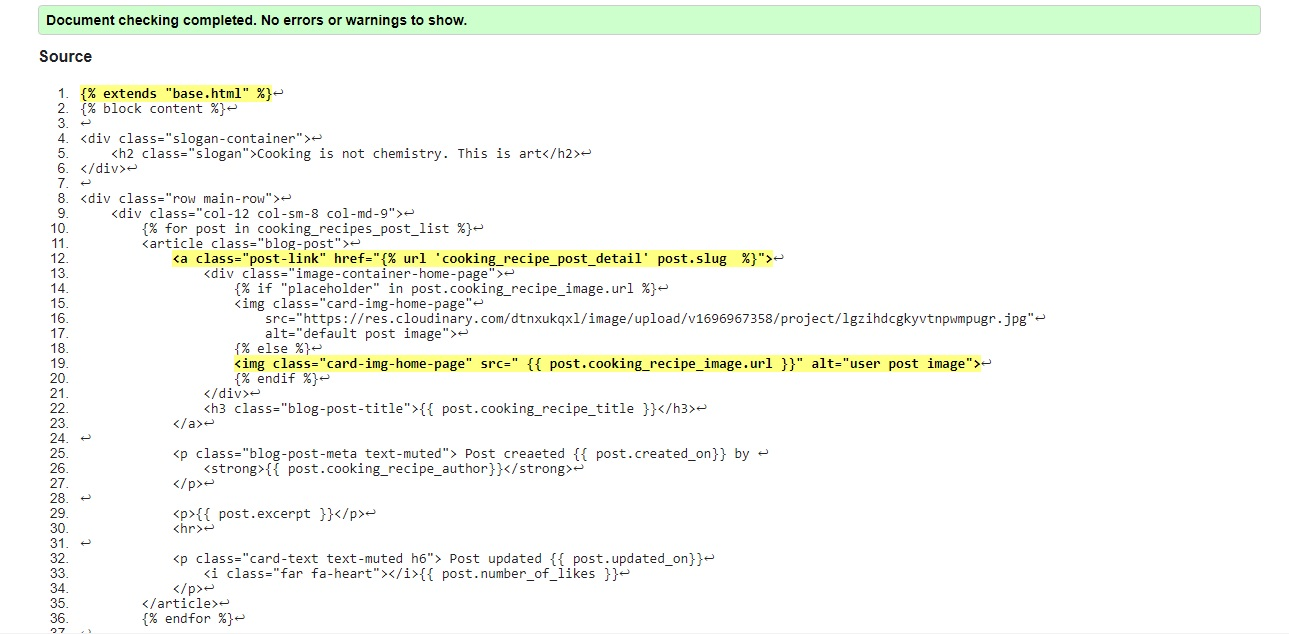
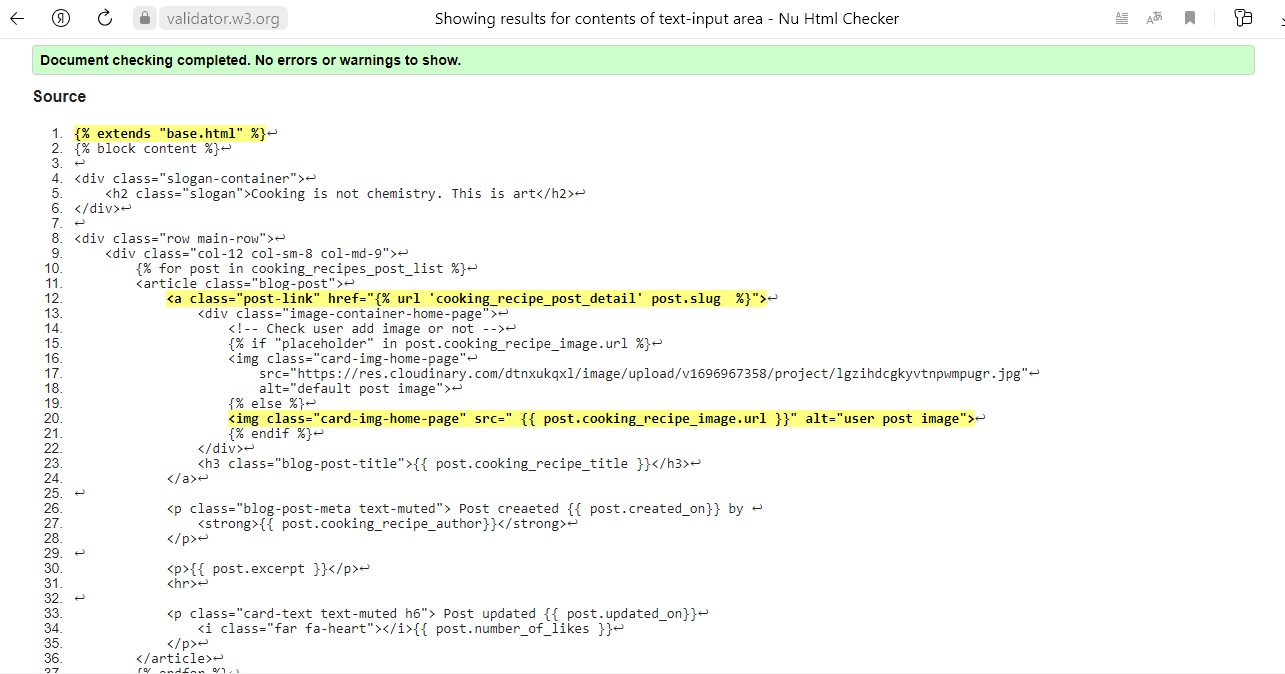
Edit index.html (add comments) and recheck file validations

Changed region(s): [[0.0, 0.0, 1.0, 1.0]]

diff --git a/templates/index.html b/templates/index.html
@@ -11,6 +11,7 @@
         <article class="blog-post">
             <a class="post-link" href="{% url 'cooking_recipe_post_detail' post.slug  %}">
                 <div class="image-container-home-page">
+                    <!-- Check user add image or not -->
                     {% if "placeholder" in post.cooking_recipe_image.url %}
                     <img class="card-img-home-page"
                         src="https://res.cloudinary.com/dtnxukqxl/image/upload/v1696967358/project/lgzihdcgkyvtnpwmpugr.jpg"
@@ -35,6 +36,7 @@
         </article>
         {% endfor %}
 
+        <!-- Pagination -->
         {% if is_paginated %}
             <nav aria-label="Page navigation">
                 <ul class="pagination justify-content-center">
@@ -47,17 +49,18 @@
                 </ul>
             </nav>
         {% endif %}
-
     </div>
+    <!-- Right side block -->
     <div class="col-12 col-sm-4 col-md-3">
         <div class="position-sticky" style="top: 2rem;">
+            <!-- Categories -->
             <div class="p-4 mb-3 bg-light rounded">
                 <h3 class="fst-italic">Categories</h3>
                 {% for category in categories %} 
                 <p class="mb-1"><a href="{{category.get_absolute_url}}" class="link-accent-color">{{ category.name }}</a></p>
                 {% endfor %}
             </div>
-          
+            <!-- Quotes -->
             <div class="p-4 mt-4">
                 <h4 class="fst-italic">Food Quotes for You</h4>
                 <div class="quotes-wrapper">
